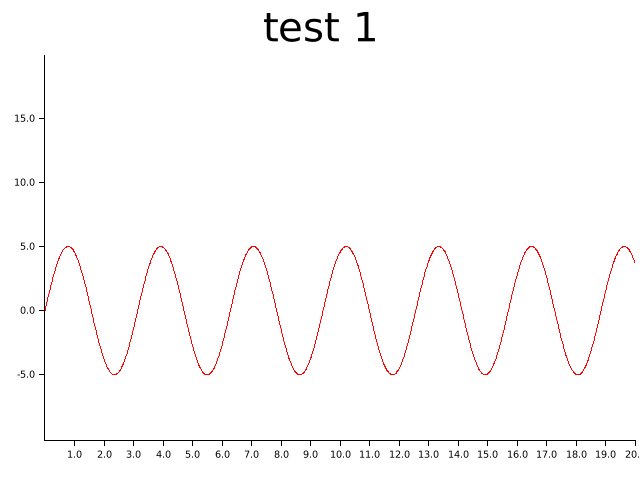
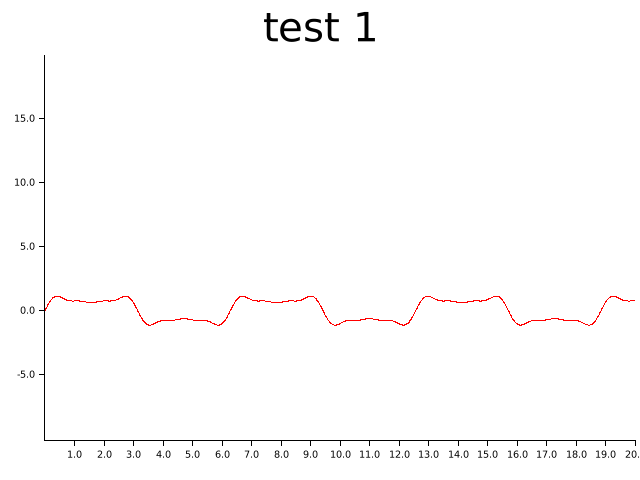
remove unfinished module from master

diff --git a/src/lib.rs b/src/lib.rs
@@ -13,97 +13,6 @@ pub mod prelude{
 }
 
 
-pub mod parser{
-    use std::{iter::Peekable, str::Chars, error::Error};
-    use super::prelude::*;
-
-    /// a single node in a parser
-    #[derive(Debug, Clone)]
-    pub struct ParseNode{
-        pub children:Vec<ParseNode>,
-        pub entry:GrammarItem,
-    }
-    impl ParseNode{
-        pub fn new()->ParseNode{
-            ParseNode{
-                children:Vec::new(),
-                entry: GrammarItem::Paren,
-            }
-        }
-    }
-
-    /// a single Grammar Item for the parser
-    #[derive(Debug, Clone)]
-    pub enum GrammarItem{
-        Paren,
-        Float(f64),
-        Var(char),
-        Plus,
-    }
-
-
-    #[derive(Debug, Clone, PartialEq)]
-    pub enum LexItem{
-        Paren(char),
-        Op(char),
-        Num(f64),
-        Var(char),
-    }
-    /// accepts a mutable refernence to an iterator, returns number of all the following digits
-    pub fn char_as_num(it: &mut Peekable<Chars>)->Result<LexItem, Box<dyn Error>>{
-        let mut astr = String::new();
-        while let Some(&c) = &it.peek(){
-            match  c{
-                '0'..='9'=>{
-                    astr.push_str(&c.to_string());
-                    it.next();
-                }
-                _=>return Ok(LexItem::Num(astr.parse::<f64>().unwrap()))
-            }
-        }
-        Ok(LexItem::Num(astr.parse::<f64>().unwrap()))
-        
-    }
-    /// Accepts a string, returns a Vec of LexItems
-    fn lex(input: &String)->Result<Vec<LexItem>, String>{
-        let mut result = Vec::new();
-        let mut it = input.chars().peekable();
-        while let Some(&c) = it.peek(){
-            match c{
-                '('|')'=>{
-                    result.push(LexItem::Paren(c));
-                    it.next();
-                }
-                '+'|'-'=>{
-                    result.push(LexItem::Op(c));
-                    it.next();
-                }
-                ' '=>{
-                    it.next();
-                }
-
-                '0'..='9'=>{
-                    result.push(char_as_num(&mut it).unwrap());
-                    it.next();
-                }
-                _=>{
-                    return Err(format!("Unexpected Item in the Lexer: {}", c))
-                }
-            }
-        }
-        Ok(result)
-    }
-    /// accepts a string, returns a ParseNode
-    pub fn parse(input:&String)->Result<ParseNode, String>{
-        let tokens = lex(input)?;
-        
-        
-
-        Ok(ParseNode::new())
-
-    }
-
-}
 
 pub mod curves{
     use plotters::prelude::*;
@@ -337,14 +246,17 @@ pub mod functions{
 
 #[cfg(test)]
 mod tests{
-    use crate::{prelude::*, functions::*, curves::*, parser::LexItem};
+    use crate::{prelude::*, functions::*, curves::*};
     use std::error::Error;
 
 
     #[test]
     fn first(){
         let mut curve = FourierCurve::new();
-        curve.push(Curve::new(5.0,2.0, 0.0));
+        curve.push(Curve::new(1.,1., 0.));
+        curve.push(Curve::new(0.5,3., 0.));
+        curve.push(Curve::new(1./4.,5., 0.));
+        curve.push(Curve::new(1./8., 7., 0.));
         
         curve.plot("plotters-doc-data/first_test.png","test 1", (0.0,20.0), (-10.0, 20.0), 0.01).unwrap();
 
@@ -390,17 +302,6 @@ mod tests{
         curve.plot("plotters-doc-data/test_func.png", "Test Function", (-100.,100.), (-1000.,1000.), 0.01);
     }
 
-    #[test]
-    fn test_char_to_num(){
-        use super::parser::char_as_num;
-        let result = "a123a".to_string();
-        let mut it = result.chars().peekable();
-        it.next();
-        let aint = char_as_num(&mut it).unwrap();
-        assert_eq!(LexItem::Num(123.), aint);
-        assert_eq!(it.peek(), Some(&'a'));
-
-
-    }
+    
 
 }// mod tests
